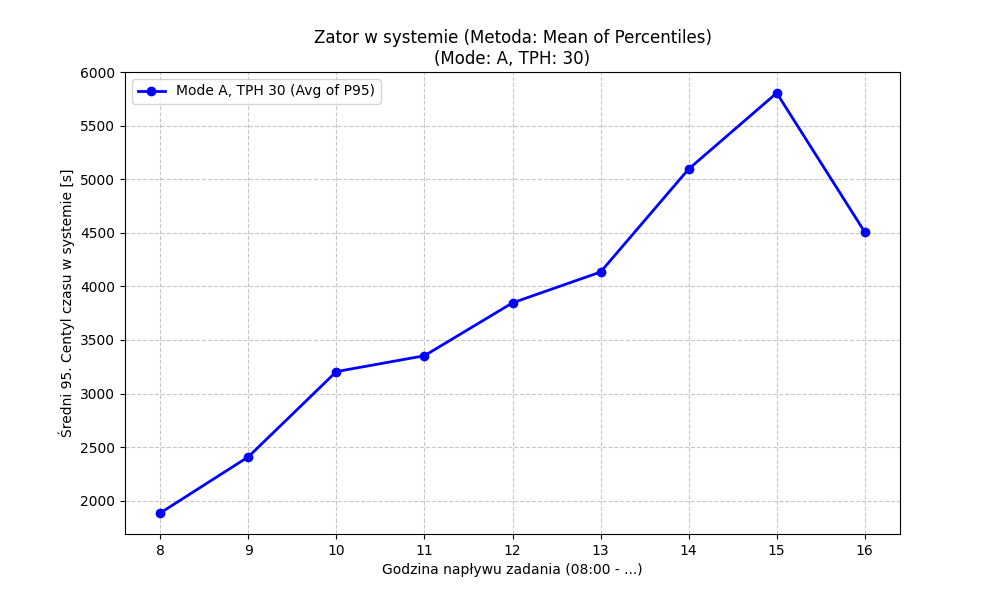
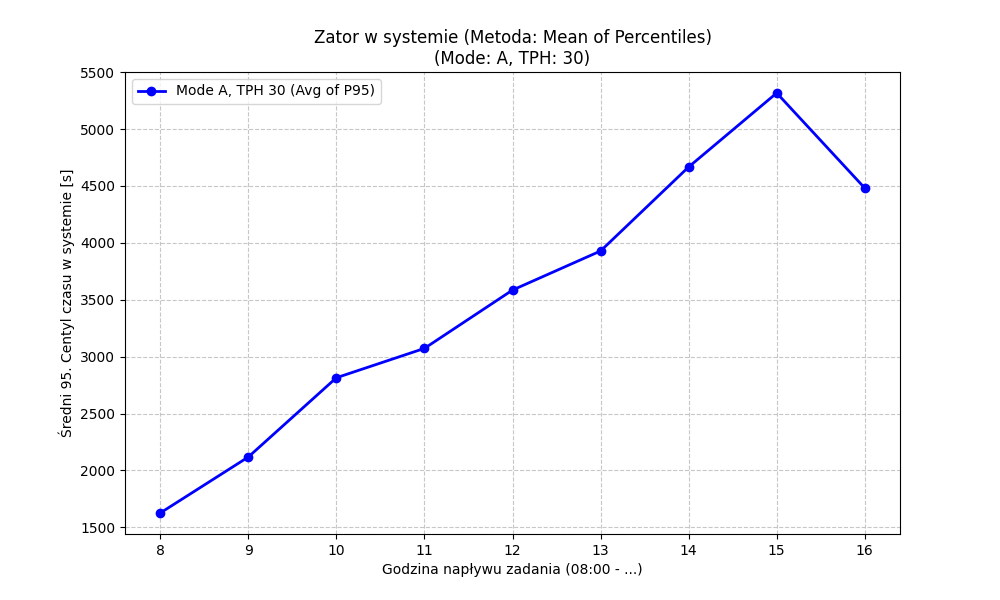
fast upload

diff --git a/python/run_batch.py b/python/run_batch.py
@@ -7,20 +7,21 @@ import time
 def run_experiments(seed):
     configs = [# 150 minut
         ("B", 10),
-        #("B", 30),
+        ("B", 30),
         ("B", 50),
-        #("B", 70),
+        ("B", 70),
         ("B", 90),
-        #("B", 110),
+        ("B", 110),
         ("B", 130),
-        #("B", 150),
-        #("B", 170),
+        ("B", 150),
+        ("B", 170),
 
         ("A", 10),
+        ("A", 15),
         ("A", 20),
-        #("A", 25),
+        ("A", 25),
         ("A", 30),
-        #("A", 35),
+        ("A", 35),
     ]
 
     print(f"=== Rozpoczynam serię {len(configs)} symulacji ===")
@@ -56,5 +57,5 @@ def run_experiments(seed):
 if __name__ == "__main__":
     parser = argparse.ArgumentParser(description="CVRP Day Simulator")
     parser.add_argument("--seed", type=int, default=1, help="Seed dla uruchomienia")
-    for i in range(1, 6):
+    for i in range(27, 30):
         run_experiments(i)

diff --git a/python/results/charts.py b/python/results/charts.py
@@ -12,7 +12,7 @@ def analyze_and_plot():
     print(f"Znaleziono plików: {len(files)}")
 
     for filename in files:
-        match = re.search(r"sim_results_([AB])_(\d+)_Seed(\d+)tph\.csv", filename)
+        match = re.search(r"sim_results_([AB])_(\d+)_Seed(\d+)_ntph\.csv", filename)
 
         if match:
             mode = match.group(1)
@@ -70,7 +70,7 @@ def analyze_and_plot():
     plt.legend()
     plt.grid(True)
 
-    output_filename = 'wykres_centyl_95_avg_arch.png'
+    output_filename = '../fig/wykres_centyl_95_avg_arch_n.png'
     plt.savefig(output_filename)
     print(f"\nWykres zapisano jako: {output_filename}")
 

diff --git a/python/simulation.py b/python/simulation.py
@@ -66,7 +66,7 @@ def generate_schedule(n_tasks_per_hour, total_hours, seed = 42):
     task_counter = 0
 
     # 60% Easy (11-12), 30% Medium (13-14), 10% Hard (15-16)
-    probs = [0.3, 0.35, 0.35, 0]
+    probs = [0.5, 0.32, 0.18, 0]
     types = ["easy", "medium", "hard", "very hard"]
 
     ranges = {

diff --git a/python/results/analyze_hourly_congestion.py b/python/results/analyze_hourly_congestion.py
@@ -194,4 +194,4 @@ def analyze_hourly_congestion_avg_of_percentiles(target_mode, target_tph):
 
 if __name__ == "__main__":
     # Przykład wywołania
-    analyze_hourly_congestion_avg_of_percentiles("A", 30)
+    analyze_hourly_congestion_avg_of_percentiles("B", 70)
